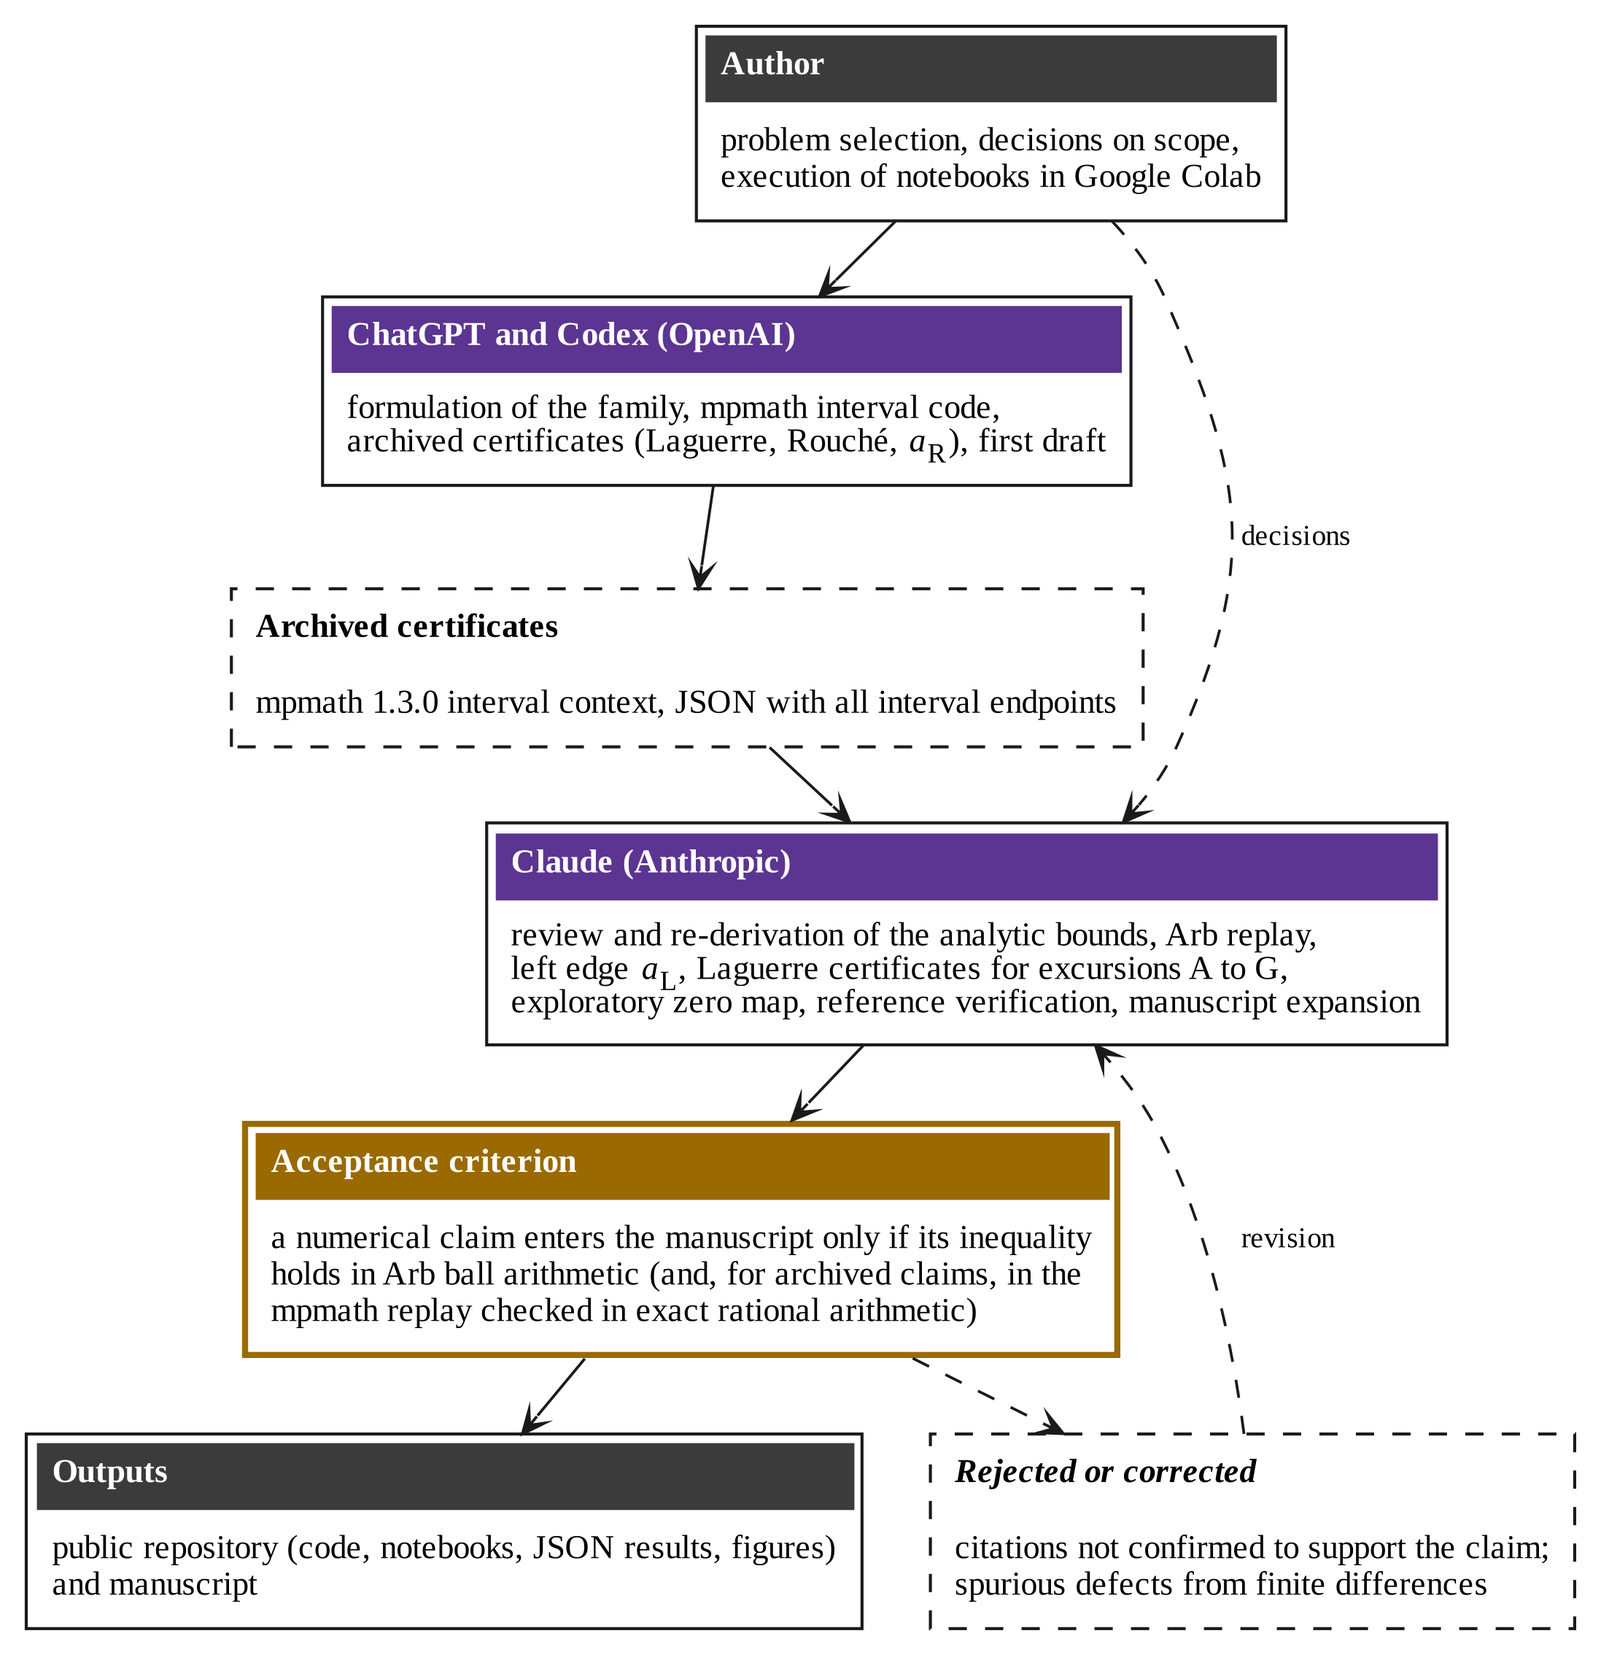
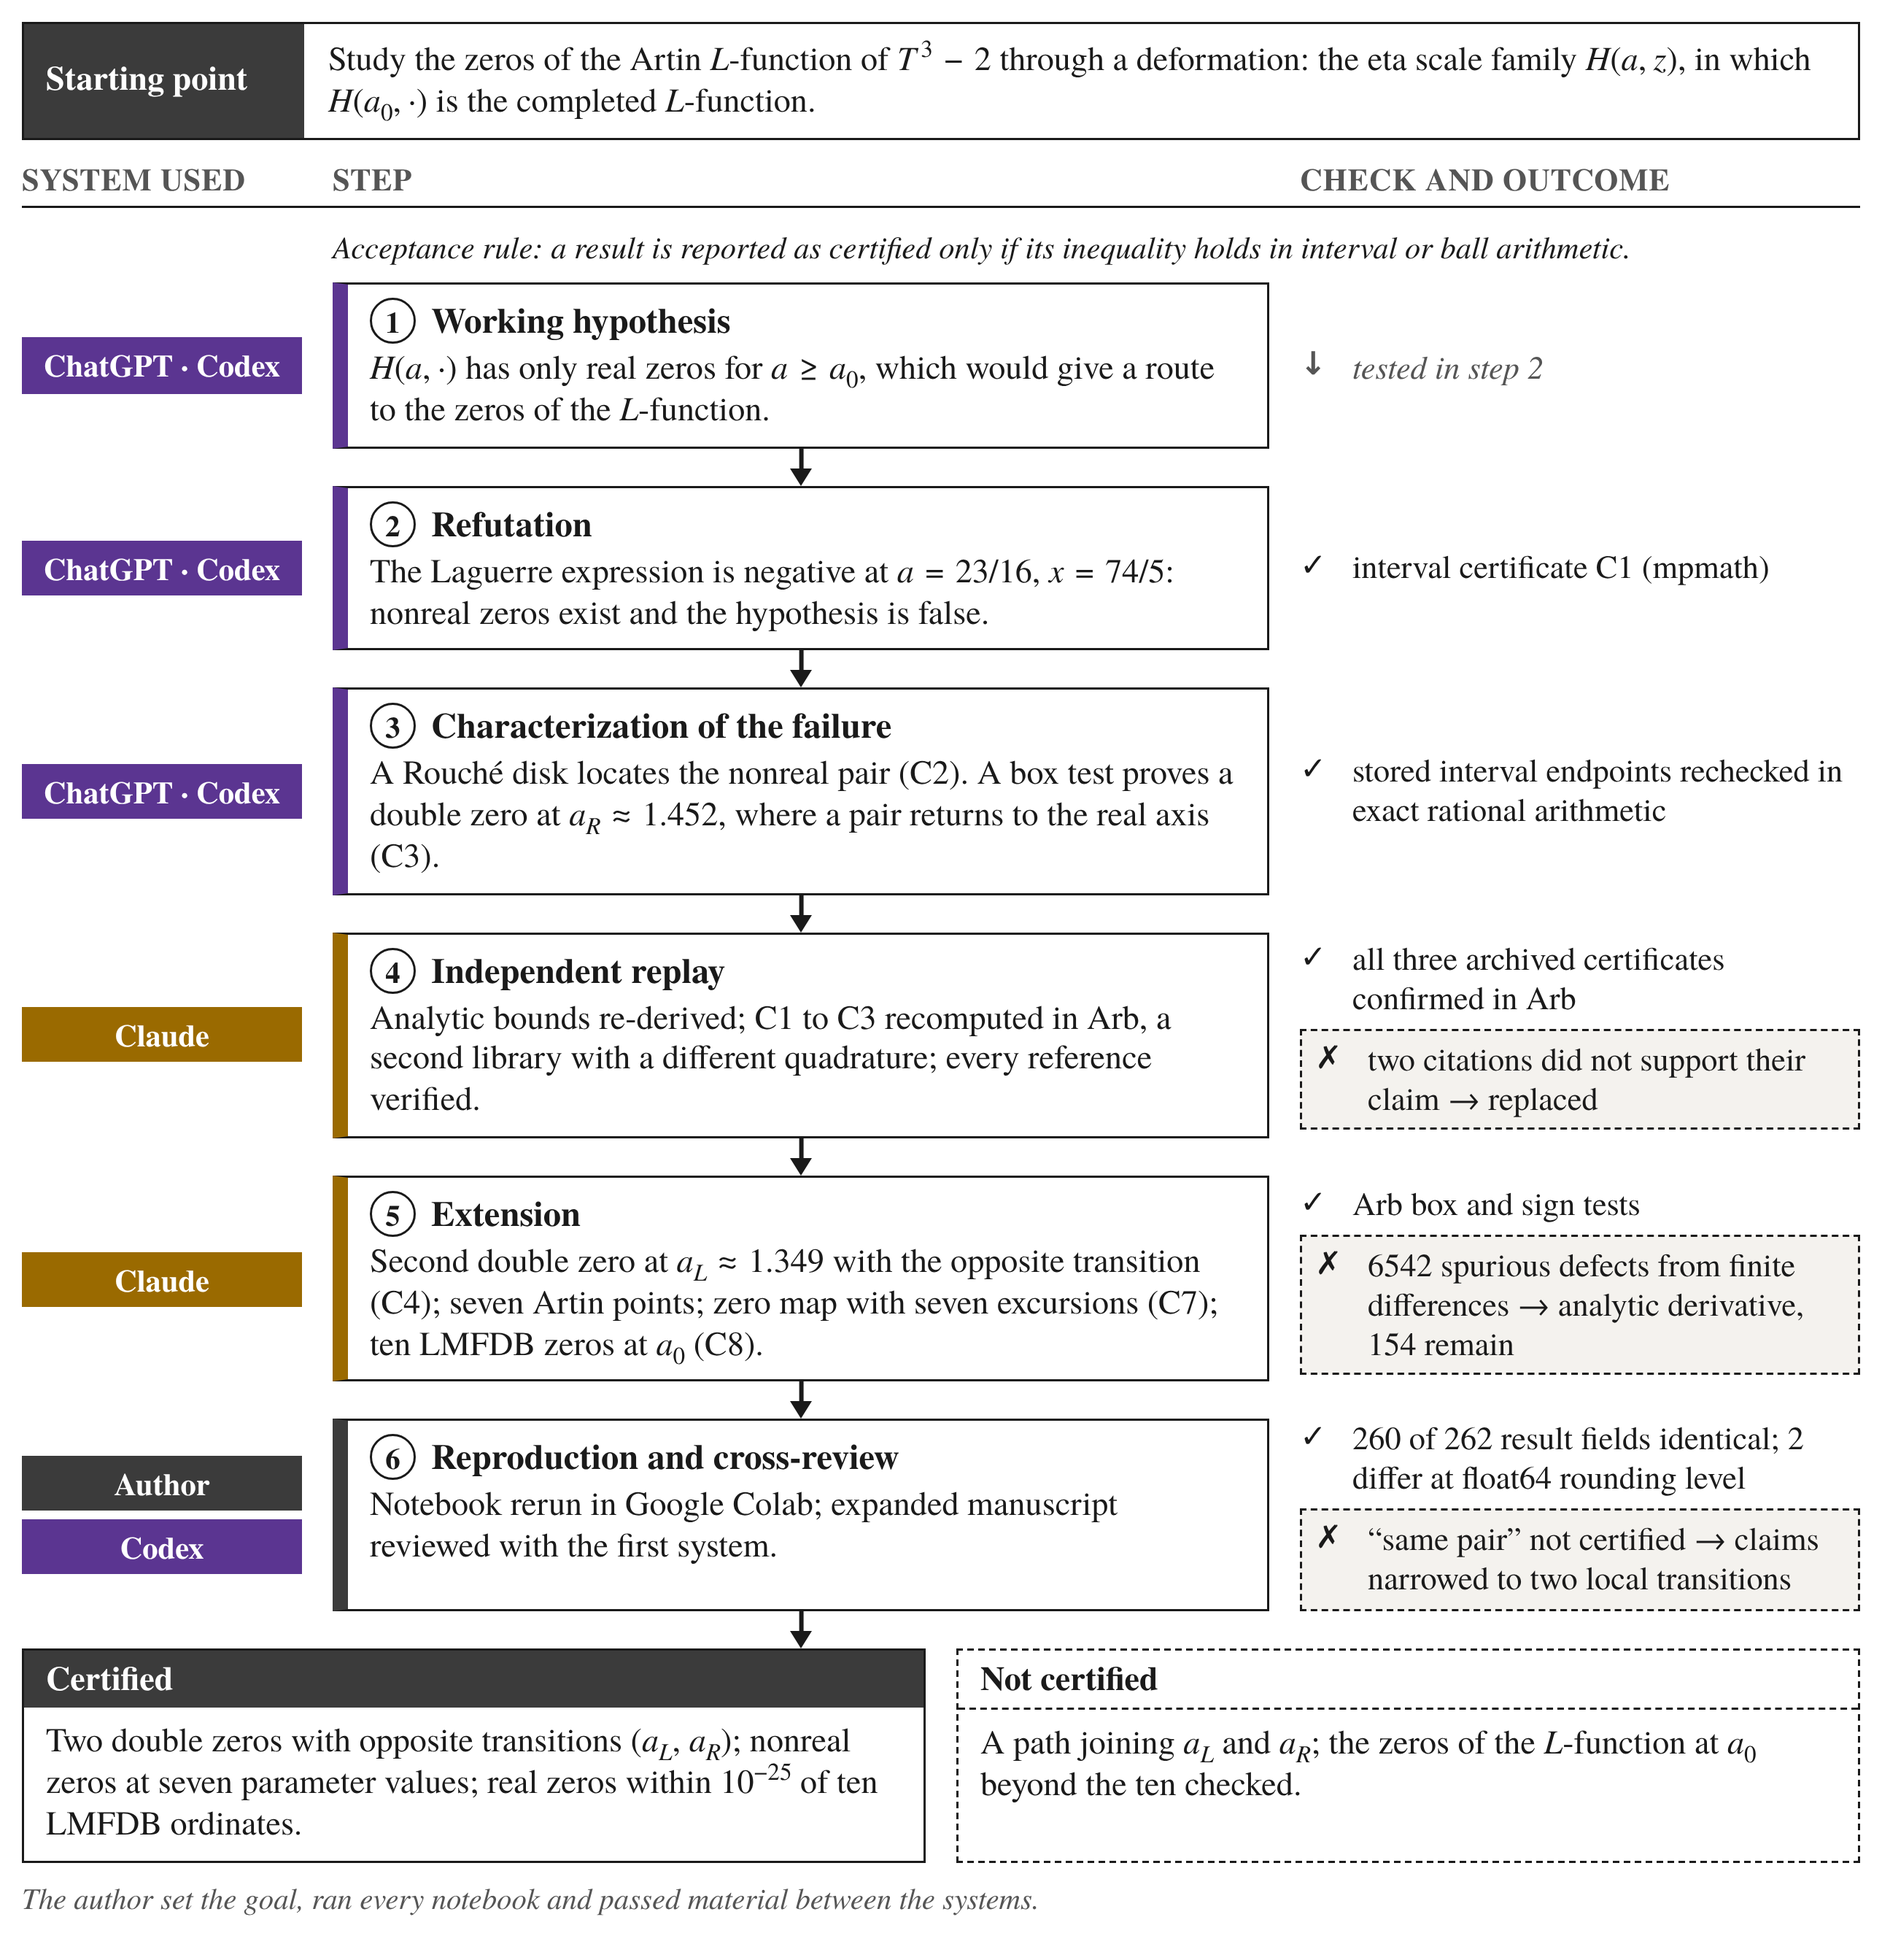
Shorten README to run instructions; update workflow figure

diff --git a/README.md b/README.md
@@ -1,101 +1,49 @@
-# Certified Edge Zeros in a Dedekind Eta Scale Family
+# eta-zero-collisions
 
-Interval certificates, an independent ball-arithmetic replay, and an AI-assisted verification workflow.
+Companion repository for a manuscript by Kurban Kotan (under review) on zero collisions in a family of Fourier transforms built from the Dedekind eta function. This page only explains how to rerun the computations. The mathematics, the statements that are proved and their limits are in the manuscript.
 
 [![Open In Colab](https://colab.research.google.com/assets/colab-badge.svg)](https://colab.research.google.com/github/kurbankotan/eta-zero-collisions/blob/main/eta_edge_zeros_reproduce.ipynb)
 
-This repository contains the code, notebooks and result files for the manuscript *Certified Edge Zeros in a Dedekind Eta Scale Family* by Kurban Kotan (submitted). The manuscript studies the one-parameter family
+## Run it
 
-$$
-H(a,z)=\int_0^\infty e^{u/2}\eta\left(ie^{u+a}\right)\eta\left(ie^{u-a}\right)\cos(zu)\mathrm{d}u ,
-$$
+**Google Colab.** Click the badge, then choose *Runtime → Run all*. A CPU session is enough and the run takes one to two minutes. When it ends, the browser downloads `eta_edge_zeros_results.zip`.
 
-where $\eta$ is the Dedekind eta function. For real $a$, the slice $H(a,\cdot)$ is an even entire function that is real on the real axis. At the seven Artin points $a=\frac{1}{2}\log(B/A)$ with $A\in\lbrace 1,2,3,4,6,8,12\rbrace$ and $A+B=24$, it is the completed $L$-function of the weight-one eta product $\eta(A\tau)\eta(B\tau)$. At $a_0=\frac{1}{2}\log 3$ this is the newform 108.1.c.a, whose $L$-function is the Artin $L$-function attached to $T^3-2$.
-
-## Certified results
-
-Every statement in the table is proved by interval or ball arithmetic combined with explicit analytic error bounds.
-
-| Certificate | Statement |
-| --- | --- |
-| Right edge $a_R$ | A box test of radius $10^{-19}$ about $(a_c,x_c)=(1.45200626937306544414\ldots, 14.83804011307100864779\ldots)$ shows that $H=H_x=0$ has exactly one solution $(a_R,x_R)$ in the box, so $x_R$ is a double zero of $H(a_R,\cdot)$. On the box $H_a<0<H_{xx}$, so near this point a conjugate pair of nonreal zeros returns to the real axis as $a$ increases through $a_R$. |
-| Left edge $a_L$ | The same test with radius $10^{-30}$ about $(1.34898938954386827787\ldots, 13.82918665572891503246\ldots)$ certifies a second double zero. On the box $H_a>0$ and $H_{xx}>0$, so near this point two real zeros meet and leave the real axis as $a$ increases through $a_L$. |
-| Nonreal zeros at $a=23/16$ | The Laguerre expression $H_x^2-HH_{xx}$ at $x=74/5$ lies in $[-1.74472143,-1.74472142]\times10^{-20}$, and Rouché disks of radius $10^{-12}$ and $10^{-19}$ about $14.67872714035986218218+0.31107587891741700810i$ each contain exactly one zero. |
-| Nonreal zeros at seven parameter values | A negative Laguerre value is certified at one parameter value inside the tracked interval of each of the seven excursions (A to G) found by the exploratory scan of $0\le a\le1.75$, $0<x<20$. The test proves that nonreal zeros exist at these parameter values; it does not locate them. |
-| LMFDB zeros at $a_0$ | Arb sign changes show that $H(a_0,\cdot)$ has a real zero within $10^{-25}$ of each of the ten smallest zero ordinates of 108.1.c.a listed by the LMFDB. |
-
-**Finite checks.** The multiplicativity test of the twelve products $\eta(A\tau)\eta(B\tau)$ up to $n\le3000$ (exactly the seven products at the Artin points pass), Gauss's cubic-residue criterion for $\eta(6\tau)\eta(18\tau)$ at 428 primes, and the lattice-sum identity at $s=2$ for the seven Artin points (float64 lattice sum, relative difference below $10^{-14}$).
-
-**Not claimed.** The certificates are local. They establish two opposite transitions, but they do not provide a certified continuation joining $a_L$ and $a_R$, so they do not prove that the pair leaving the real axis at $a_L$ is the pair returning at $a_R$; that identification rests on float64 tracking. The computations also do not test the generalized Riemann hypothesis for the seven $L$-functions and do not give a global zero count. The zero map ([figures/fig_zero_landscape.png](figures/fig_zero_landscape.png)) is an exploratory float64 computation, not a certificate.
-
-## Repository contents
-
-| Path | Contents |
-| --- | --- |
-| [eta_edge_zeros_reproduce.ipynb](eta_edge_zeros_reproduce.ipynb) | Reproduction notebook (Arb through python-flint). It computes every number reported in the Results section of the manuscript, writes `results.json`, `versions.json`, `run_log.txt` and the figures, and packs them into `eta_edge_zeros_results.zip`, which is downloaded automatically in Google Colab. |
-| [results/colab/](results/colab) | Output of the reproduction notebook on a Google Colab CPU runtime |
-| [results/dev/](results/dev) | Output of the same notebook in the development environment |
-| [results/archived_replay/](results/archived_replay) | Replay of the archived mpmath certificates with `replay_certificates.py` |
-| [figures/](figures) | Figures of the manuscript; `workflow.dot` is the Graphviz source of the workflow diagram |
-| [replay_certificates.py](replay_certificates.py) | Archived mpmath interval script (Laguerre, Rouché and right-edge certificates) |
-| [check_certificate.py](check_certificate.py) | Checker that re-verifies the stored inequalities in exact rational arithmetic |
-| [data/sonuclar.json](data/sonuclar.json) | Archived result file with all interval endpoints (Python 3.14.6, mpmath 1.3.0) |
-| [Kubik_L_arastirmasi.ipynb](Kubik_L_arastirmasi.ipynb) | Original Colab notebook (in Turkish); it also contains a supplementary prime scan that is not used in the manuscript |
-| [requirements.txt](requirements.txt) | Dependencies |
-| [CITATION.cff](CITATION.cff) | Citation metadata |
-| [LICENSE](LICENSE) | MIT License |
-
-## Reproduce in Google Colab
-
-1. Click the **Open in Colab** badge above.
-2. Keep the default CPU runtime and choose **Runtime → Run all**.
-3. The notebook installs python-flint with pip and finishes in one to two minutes. Its last cell downloads `eta_edge_zeros_results.zip` with `results.json`, `versions.json`, `run_log.txt` and the two figures.
-
-The Colab run and the development run agree in every certificate and finite check. Of the 262 recorded result fields, only two differ, and both are float64 rounding-level quantities: one relative difference in the lattice-sum check (`lattice_check_s2`) and the accuracy bound of the float64 evaluator (`float64_max_abs_error_vs_arb`).
-
-| Run | Python | python-flint | NumPy | Matplotlib |
-| --- | --- | --- | --- | --- |
-| Google Colab, CPU | 3.13.18 | 0.9.0 | 2.4.6 | 3.10.0 |
-| Development environment | 3.13.18 | 0.9.0 | 2.5.5 | 3.11.2 |
-
-The figures in [figures/](figures) were produced by the development run. The Colab run produced the same underlying data.
-
-## Reproduce from a terminal
-
-Use Python 3.11 or newer.
+**Terminal** (Python 3.11 or newer):
 
 ```sh
 python -m venv .venv
+. .venv/bin/activate              # Windows PowerShell: .\.venv\Scripts\Activate.ps1
+python -m pip install -r requirements.txt jupyter
+jupyter nbconvert --to notebook --execute eta_edge_zeros_reproduce.ipynb --output executed.ipynb
 ```
 
-Activate the environment with `. .venv/bin/activate` on macOS or Linux, or `.\.venv\Scripts\Activate.ps1` in Windows PowerShell. Then run the following commands from the repository root.
+**Older mpmath script and its checker:**
 
 ```sh
-python -m pip install -r requirements.txt jupyter
-
-# reproduction notebook (Arb)
-jupyter nbconvert --to notebook --execute eta_edge_zeros_reproduce.ipynb --output executed.ipynb
-
-# archived mpmath certificates
 python check_certificate.py data/sonuclar.json
 python replay_certificates.py --output replay.json
 python check_certificate.py replay.json --compare data/sonuclar.json
 ```
 
-The replay recomputes the three archived interval certificates on the CPU in about half a minute. Add `--include-prime-scan` to also regenerate the supplementary prime experiment. The checker uses exact Python fractions; with `--compare` it also checks that the replayed enclosures are compatible with the archived ones.
+Adding `--include-prime-scan` to the second command also runs an optional prime experiment.
 
-## Method in brief
+## What is where
 
-Each integral is evaluated over $[0,6]$; the tail beyond $u=6$ is below $10^{-80}$. The Arb computations use rigorous numerical integration at 320 bits, and $\eta$ is evaluated with Arb's modular-form routine. A negative Laguerre expression $H_x^2-HH_{xx}$ at a real point certifies nonreal zeros of the slice. A Rouché test isolates a single nonreal zero. A Banach/Krawczyk-type box test, with an analytic bound on the variation of the Jacobian, certifies a unique solution of $H=H_x=0$, that is, a double zero. The signs of $H_a$ and $H_{xx}$ at that point decide whether the two real zeros meet and leave the real axis or return to it as $a$ increases. The archived certificates use mpmath interval arithmetic with Lagrange quadrature weights computed in exact rational arithmetic and Cauchy remainder bounds.
+| Path | What it is |
+| --- | --- |
+| `eta_edge_zeros_reproduce.ipynb` | Main notebook (python-flint, Arb). Writes `results.json`, `versions.json`, `run_log.txt`, two PNG figures and the zip file. |
+| `results/colab/`, `results/dev/` | Output of the main notebook from two machines |
+| `results/archived_replay/` | Output of `replay_certificates.py` |
+| `figures/` | PNG figures |
+| `replay_certificates.py` | Older mpmath script |
+| `check_certificate.py` | Checker for the JSON files of that script (standard library only) |
+| `data/sonuclar.json` | JSON file from the original run of the mpmath script |
+| `Kubik_L_arastirmasi.ipynb` | Original notebook (Turkish) |
+| `requirements.txt`, `CITATION.cff`, `LICENSE` | Dependencies, citation metadata, MIT License |
 
-## AI-assisted workflow
+Package versions of every stored run are listed in its `versions.json`.
 
-The archived certificates, the mpmath code and the first draft of the manuscript were developed with ChatGPT and Codex (OpenAI). Claude (Anthropic) was then used to review that work, replay the certificates in Arb, certify the left edge and the excursion points, compute the exploratory zero map, verify the references and expand the manuscript. A numerical statement was accepted only if its inequality held in interval or ball arithmetic. The conversations with the language models are not part of this repository.
+## Notes
 
-## Citation
-
-If you use this code or data, please cite the manuscript. The metadata in [CITATION.cff](CITATION.cff) will be updated when the article is published.
-
-## License
-
-MIT License; see [LICENSE](LICENSE).
+- Large language models were used in this project. The manuscript describes how.
+- Title, journal and DOI will be added here once the article is published.

diff --git a/results/README.md b/results/README.md
@@ -1,17 +1,15 @@
-# Result files
+# Stored outputs
 
-| Folder | Produced by | Files |
+| Folder | Made by | Files |
 | --- | --- | --- |
-| `colab/` | `eta_edge_zeros_reproduce.ipynb` on a Google Colab CPU runtime (Python 3.13.18, python-flint 0.9.0, NumPy 2.4.6, Matplotlib 3.10.0) | `results.json`, `versions.json`, `run_log.txt` |
-| `dev/` | The same notebook in the development environment (Python 3.13.18, python-flint 0.9.0, NumPy 2.5.5, Matplotlib 3.11.2) | `results.json`, `versions.json`, `run_log.txt` |
-| `archived_replay/` | `python replay_certificates.py --output replay.json` (Python 3.13.18, mpmath 1.3.0) | `replay.json`, `replay_log.txt` |
+| `colab/` | main notebook, Google Colab CPU session | `results.json`, `versions.json`, `run_log.txt` |
+| `dev/` | main notebook, second machine | same three files |
+| `archived_replay/` | `python replay_certificates.py --output replay.json` | `replay.json`, `replay_log.txt` |
 
-`results.json` contains every number reported in the Results section of the manuscript. Interval endpoints are rounded outward. The two notebook runs agree in all 262 recorded fields except `lattice_check_s2[3].rel_diff` (4.3e-15 versus 4.0e-15) and `scan.float64_max_abs_error_vs_arb` (1.0e-17 versus 1.6e-17), both float64 rounding-level quantities.
+Package versions are in each `versions.json`.
 
-`archived_replay/replay.json` can be compared with the archived file `data/sonuclar.json`:
+Compare the replay with the original JSON file:
 
 ```sh
 python check_certificate.py results/archived_replay/replay.json --compare data/sonuclar.json
 ```
-
-Of the 53 fields common to the two files, 52 are identical; the remaining one is the recorded Python version.
